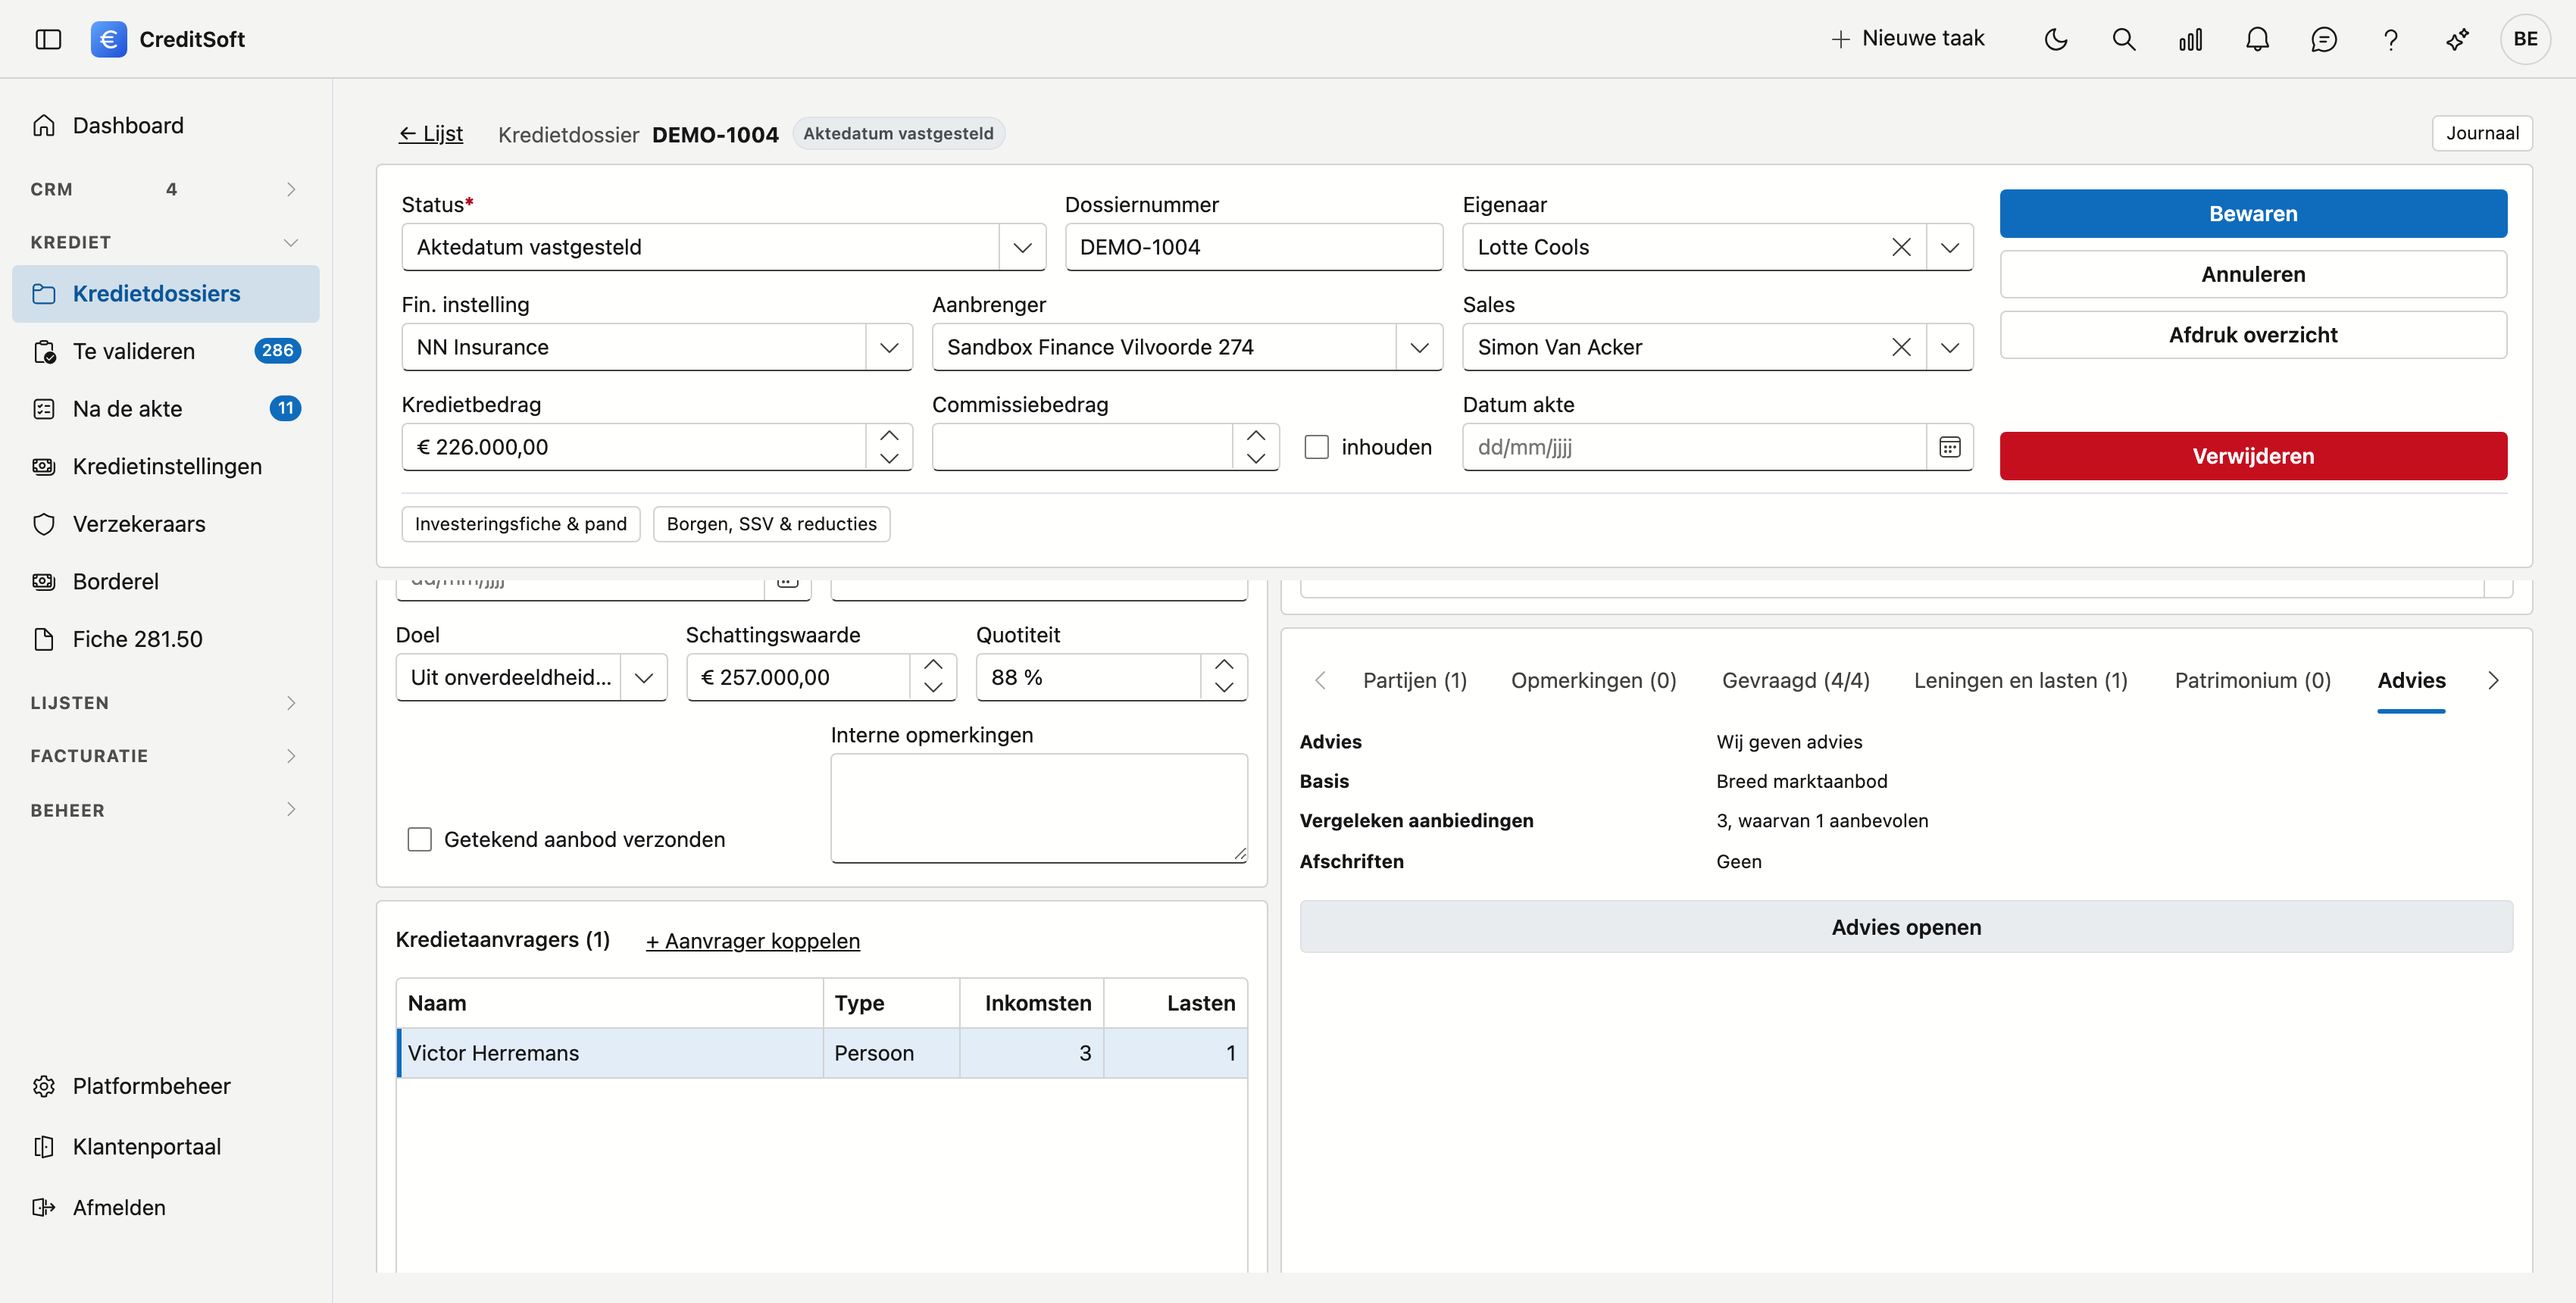
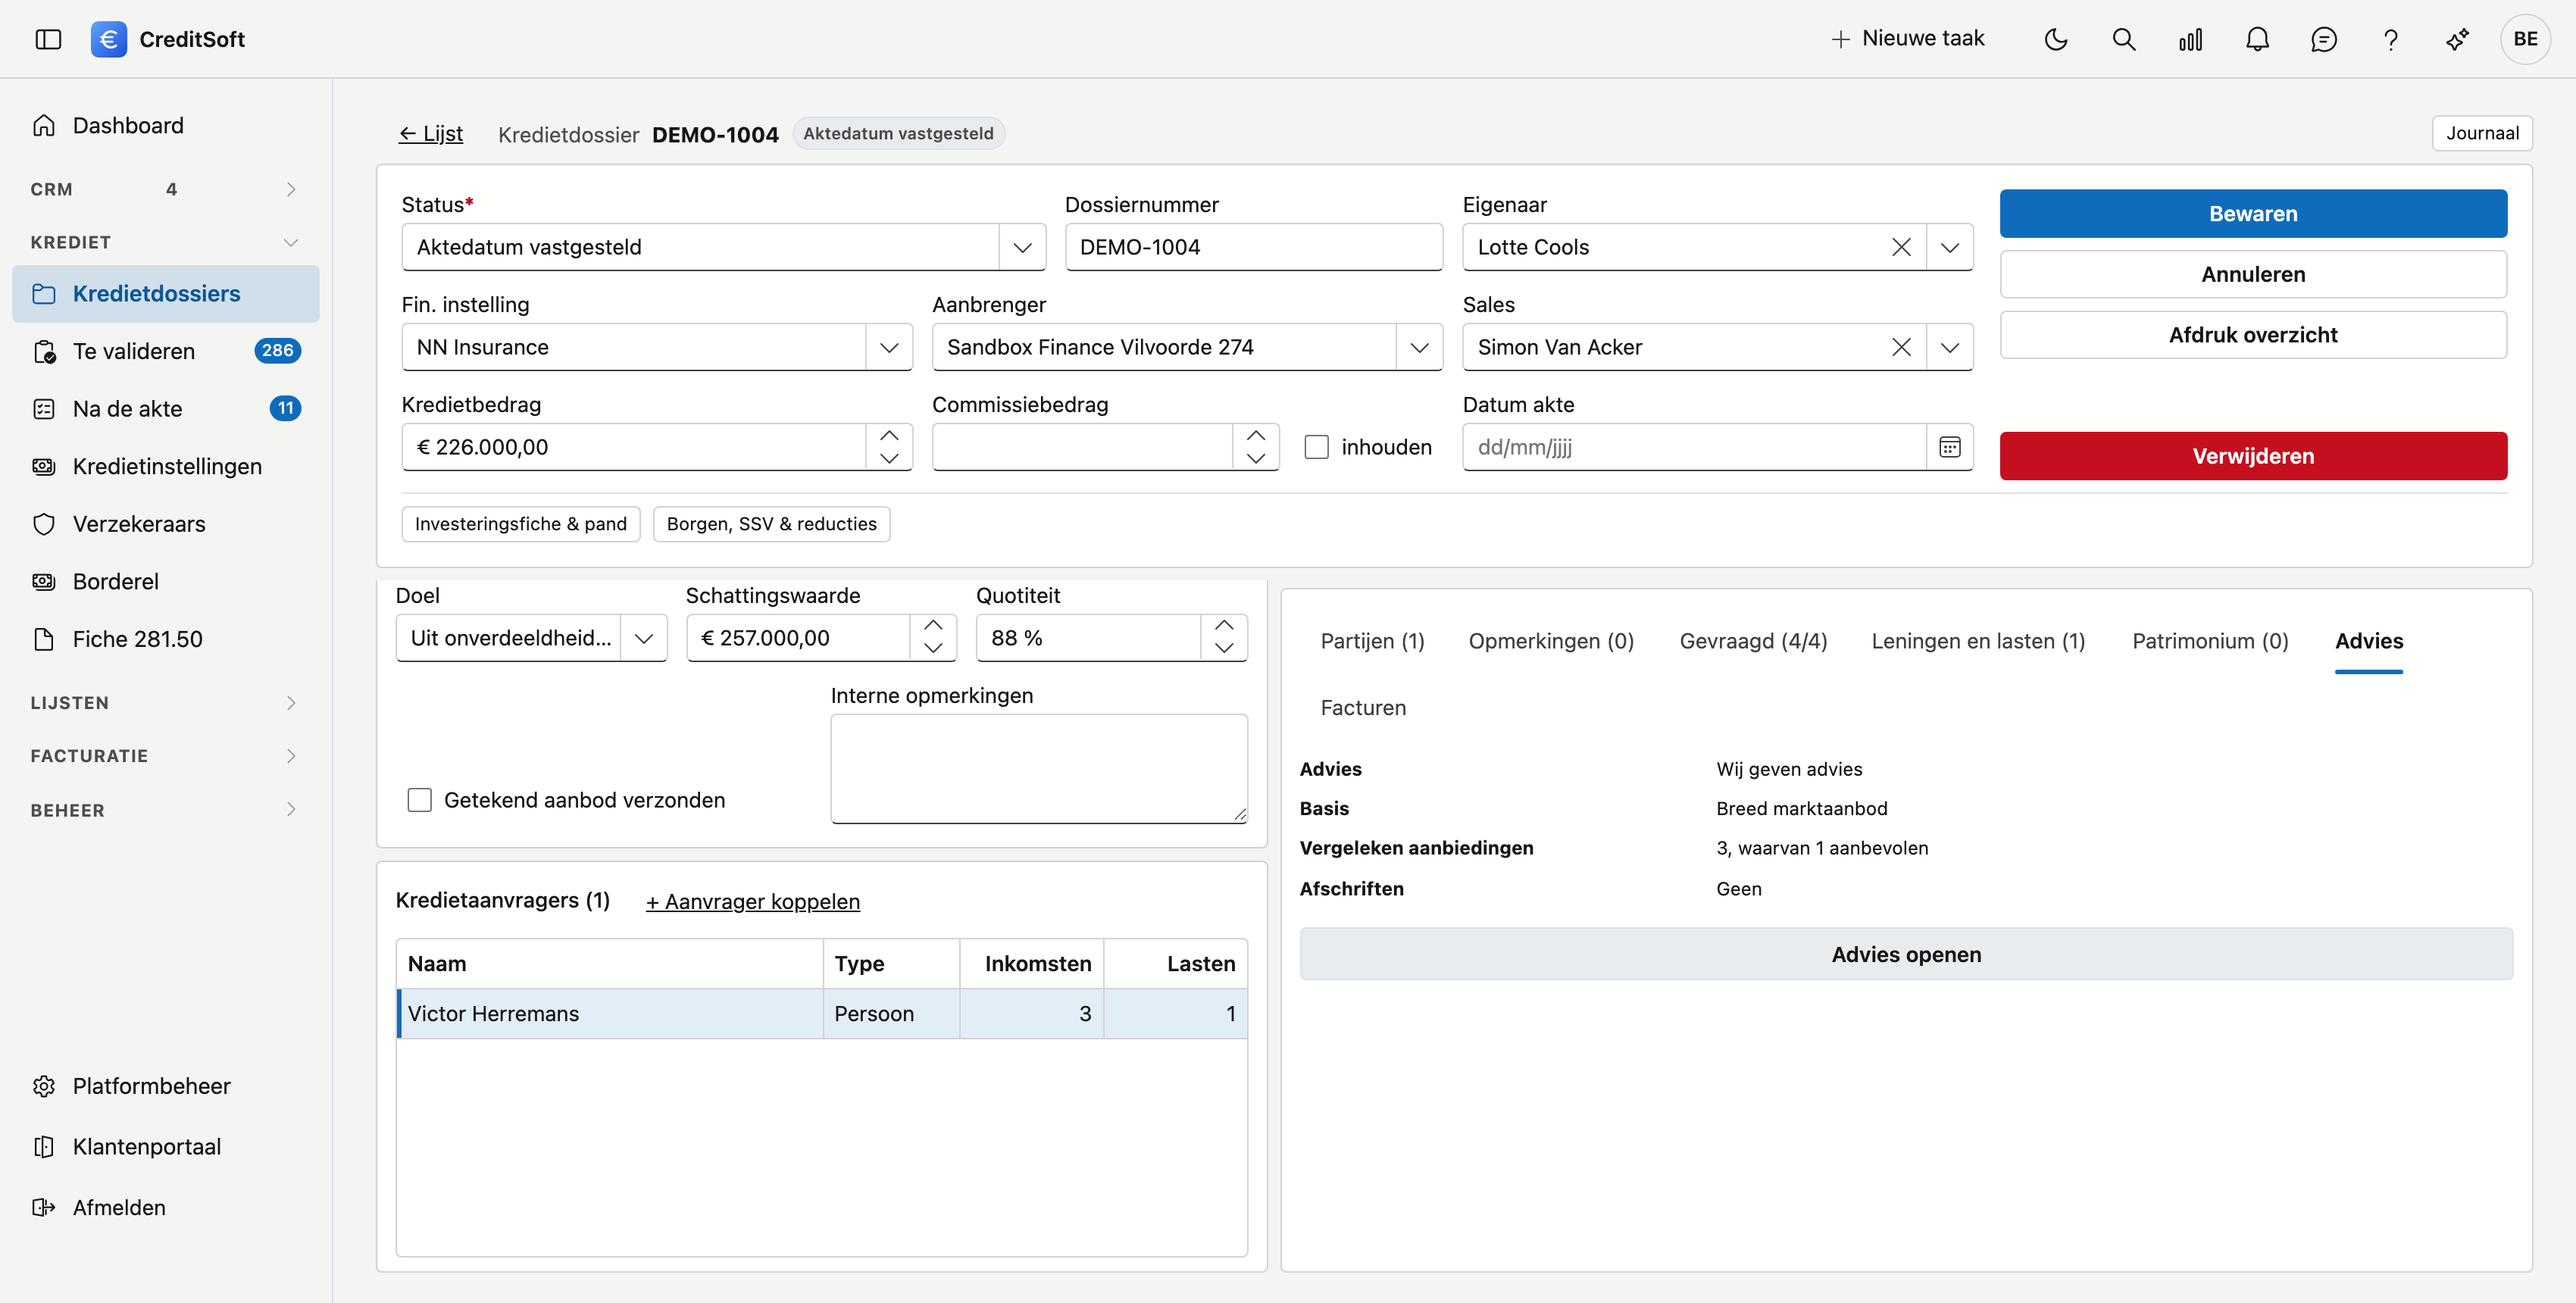
Afronding, tabbladen en Te bevestigen commissies (app 1.203.2, NL+FR)
- Commissieschema's: bij gespreid worden de maandbedragen op de cent afgerond; de cent komt op een maandlijn,
  een rond bedrag bij de start blijft rond.
- Te bevestigen commissies: info-blok zegt erbij wanneer het voorstel met alle kredietcontracten rekent.
- Portaal › Afrekeningen: waar Commissie doorgeven staat (luik onder Contracten, laatste tabblad, eventueel op
  een tweede regel). "Rechts staat het tabblad" liet Hypotheekwereld besluiten dat het er niet was.
- Beelden hernomen op app abfeceb2 (klok vast op 01/09/2026): 34 geschreven, vorm 34/34 gelijk aan het ijkpunt.
  Echt gewijzigd: kredietdossier-advies (Facturen nu op een tweede regel i.p.v. achter het pijltje; FR paste al)
  en kredietdossier-commissievoorstel NL/FR (demo: bedrag staat al in het veld, Overnemen grijs). Vijf beelden
  met enkel kantafvlakking (max 28/255) teruggezet.
- Lokaal: check-beeldbreedte, mkdocs build, check-films groen.

diff --git a/docs/credit-management/commission-schemes.fr.md b/docs/credit-management/commission-schemes.fr.md
@@ -26,7 +26,7 @@ Chaque ligne correspond à un accord entre un **dossier** et un **apporteur**. S
 
 ## Les trois formes
 
-- **Étalé** — la commission est répartie sur un nombre de mois, éventuellement avec un pourcentage versé dès le départ.
+- **Étalé** — la commission est répartie sur un nombre de mois, éventuellement avec un pourcentage versé dès le départ. Les montants mensuels sont arrondis au centime. Les centimes que cela déplace vont sur l'une des lignes mensuelles : le total est toujours le montant de la commission, et un montant rond au départ reste rond.
 - **Planifié** — vous fixez vous-même les échéances : quel pourcentage à quel mois.
 - **Montant fixe** — le montant total est payé en une seule fois à la date de début. Le montant lui-même
   est la **commission totale** que vous saisissez en haut ; il n'y a pas de champ distinct.

diff --git a/docs/credit-management/commission-schemes.md b/docs/credit-management/commission-schemes.md
@@ -26,7 +26,7 @@ Elke regel is één afspraak tussen een **dossier** en een **aanbrenger**. Hange
 
 ## De drie vormen
 
-- **Gespreid** — de commissie wordt over een aantal maanden verdeeld, eventueel met een percentage dat meteen bij de start wordt uitbetaald.
+- **Gespreid** — de commissie wordt over een aantal maanden verdeeld, eventueel met een percentage dat meteen bij de start wordt uitbetaald. De maandbedragen worden op de cent afgerond. Wat dat aan centen verschuift, komt op een van de maandlijnen: het totaal is altijd het commissiebedrag, en een rond bedrag bij de start blijft rond.
 - **Gepland** — u bepaalt zelf de termijnen: in welke maand welk percentage.
 - **Vast bedrag** — het volledige bedrag wordt in één keer uitbetaald op de startdatum. Het bedrag zelf
   is de **totale commissie** die u bovenaan invult; er is geen apart veld voor.

diff --git a/docs/portaal/afrekeningen.fr.md b/docs/portaal/afrekeningen.fr.md
@@ -10,7 +10,8 @@ décomptez vous-même.
 ## Reverser une commission
 
 Le reversement se fait **sur un dossier**, pas sur cet écran. Sous **Mes dossiers**, ouvrez un dossier sur
-lequel vous percevez vous-même une commission. À droite se trouve l'onglet **Reverser une commission**.
+lequel vous percevez vous-même une commission. À droite, dans le volet sous **Contrats**, se trouve l'onglet
+**Reverser une commission**. C'est le dernier onglet de la rangée ; sur un écran plus étroit, il passe à la ligne.
 
 Si cet onglet n'apparaît pas, c'est que vous ne percevez aucune commission sur ce dossier — il n'y a donc
 rien à reverser.

diff --git a/docs/portaal/afrekeningen.md b/docs/portaal/afrekeningen.md
@@ -9,7 +9,8 @@ Werkt u met eigen makelaars onder uw kantoor, dan kent u hun commissie zelf toe 
 ## Commissie doorgeven
 
 Doorgeven gebeurt **op een dossier**, niet op dit scherm. Open bij **Mijn dossiers** een dossier waarop u
-zelf commissie ontvangt. Rechts staat het tabblad **Commissie doorgeven**.
+zelf commissie ontvangt. Rechts, in het luik onder **Contracten**, staat het tabblad **Commissie doorgeven**. Het is
+het laatste tabblad van die rij; op een smaller scherm staat het op een tweede regel.
 
 Staat dat tabblad er niet, dan ontvangt u op dat dossier zelf geen commissie — en dan valt er ook niets
 van door te geven.

diff --git a/docs/credit-management/commission-to-confirm.fr.md b/docs/credit-management/commission-to-confirm.fr.md
@@ -40,6 +40,7 @@ Un dossier qui a déjà un schéma de commission payé par votre bureau ne figur
 
 !!! info "La commission banque diffère de la proposition ?"
     La proposition du barème figure alors en dessous. C'est toujours le montant du dossier qui est réparti.
+    Si aucun contrat de crédit n'est encore *réalisé*, la proposition porte sur tous les contrats de crédit, et c'est alors précisé. Si plusieurs offres coexistent, la proposition est dans ce cas trop élevée.
 
 ## Voir aussi
 

diff --git a/docs/credit-management/commission-to-confirm.md b/docs/credit-management/commission-to-confirm.md
@@ -40,6 +40,7 @@ Een dossier dat al een commissieschema heeft dat uw kantoor betaalt, staat niet 
 
 !!! info "Verschilt de bankcommissie van het voorstel?"
     Dan staat het voorstel van het barema eronder. Verdeeld wordt altijd het bedrag op het dossier.
+    Staat nog geen enkel kredietcontract op *Gerealiseerd*, dan rekent het voorstel met alle kredietcontracten, en dat staat er dan bij. Liggen er offertes naast elkaar, dan is het voorstel in dat geval te hoog.
 
 ## Zie ook
 
